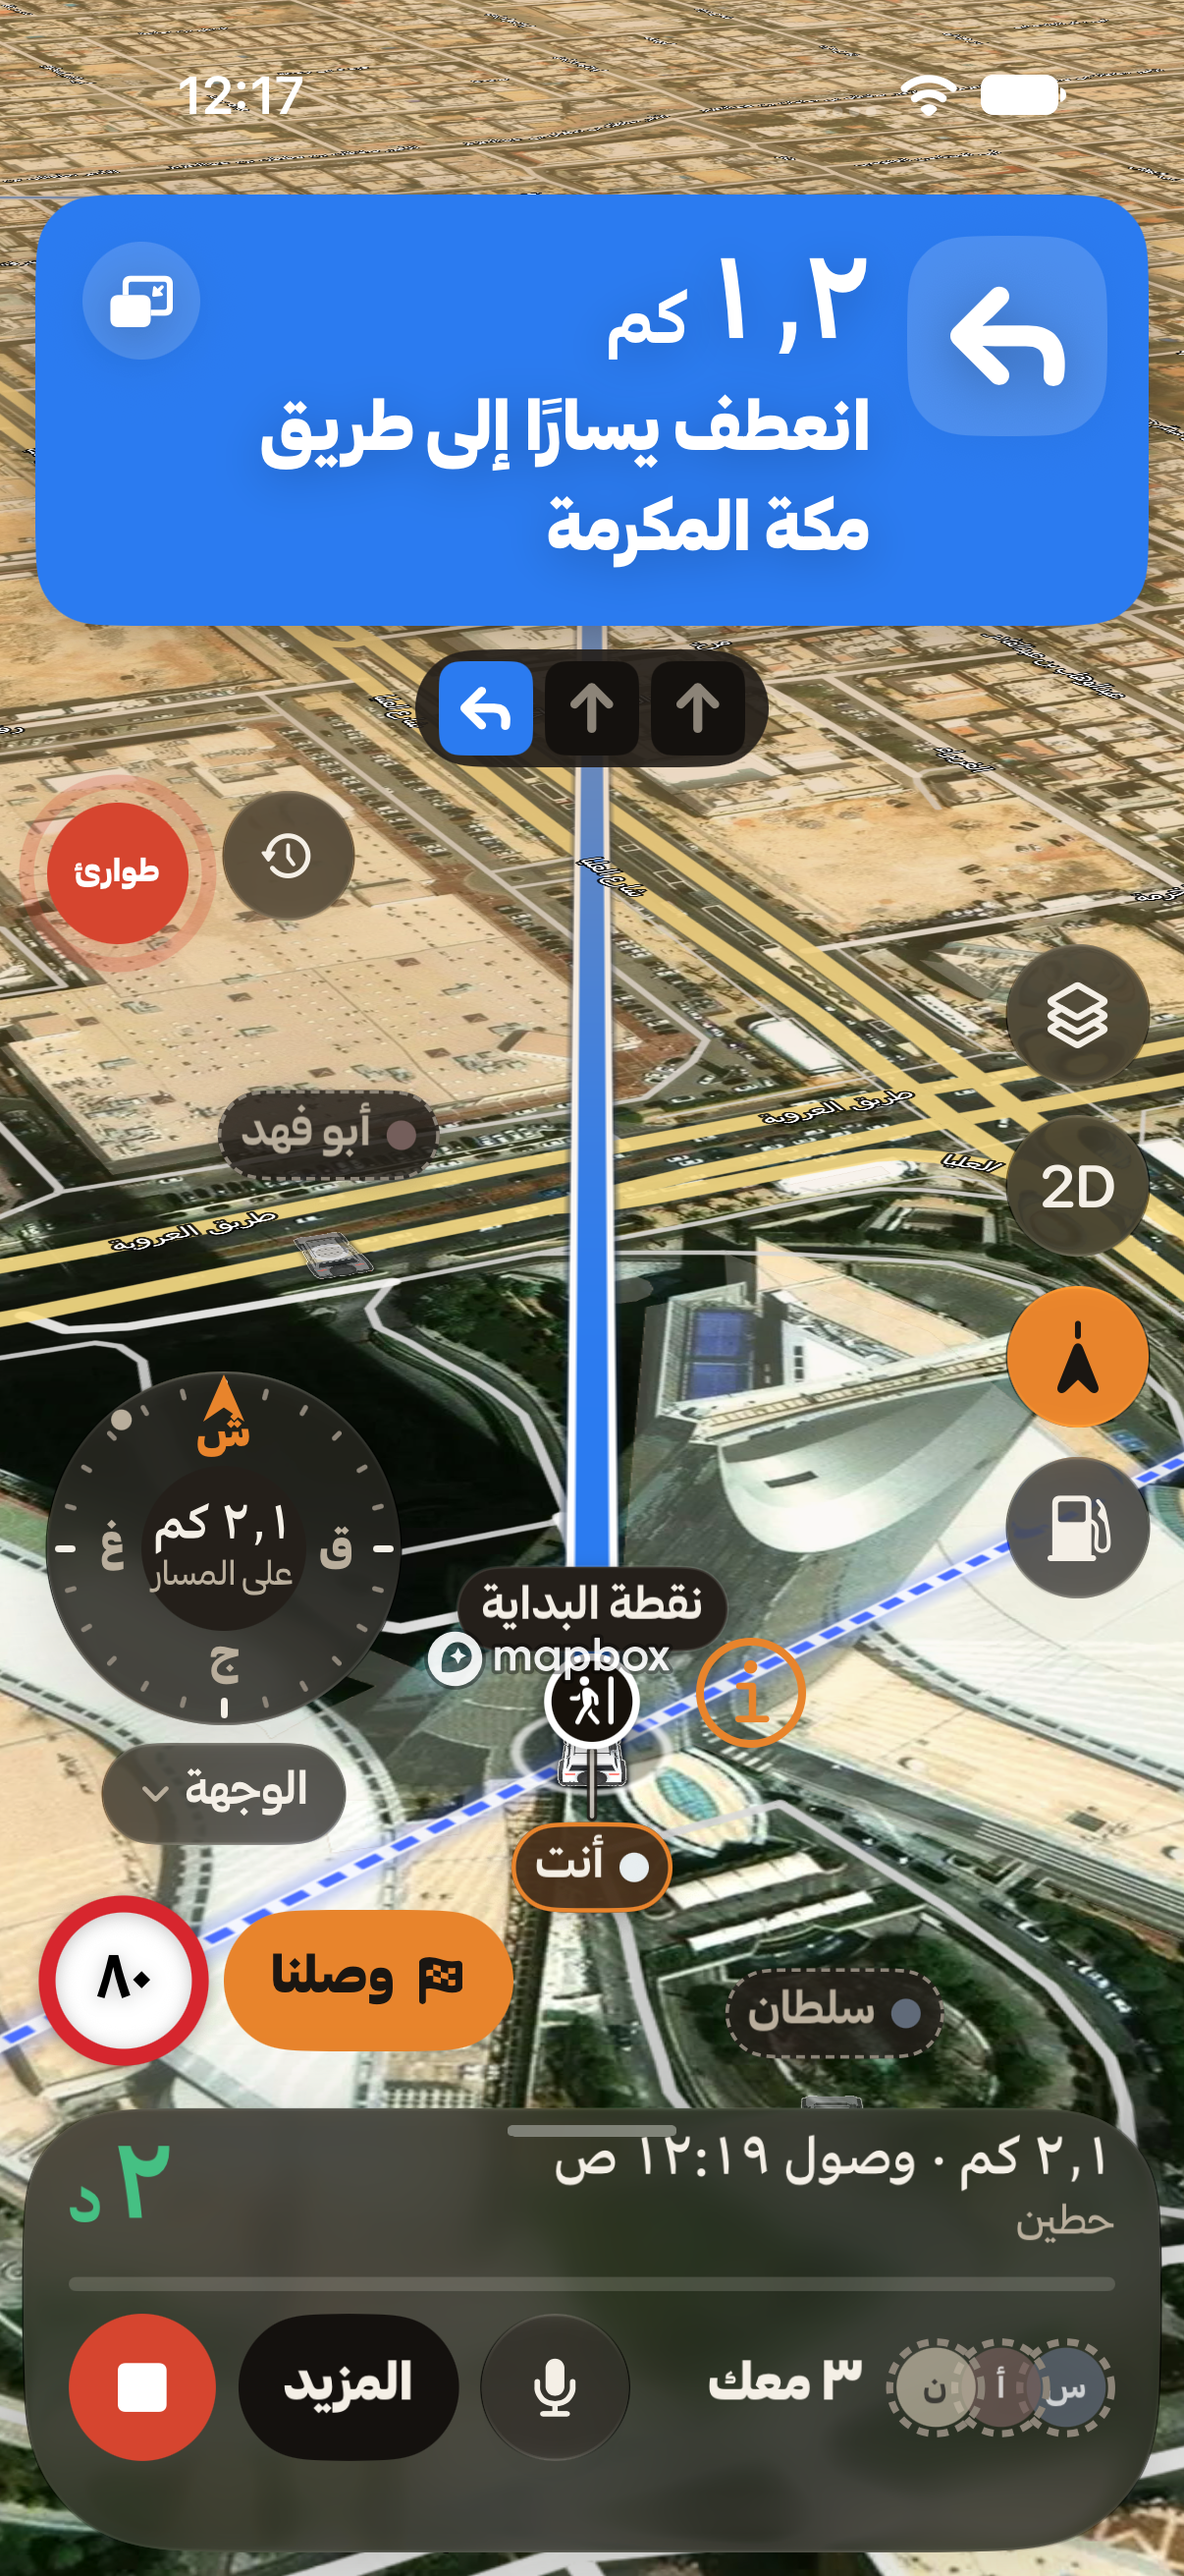
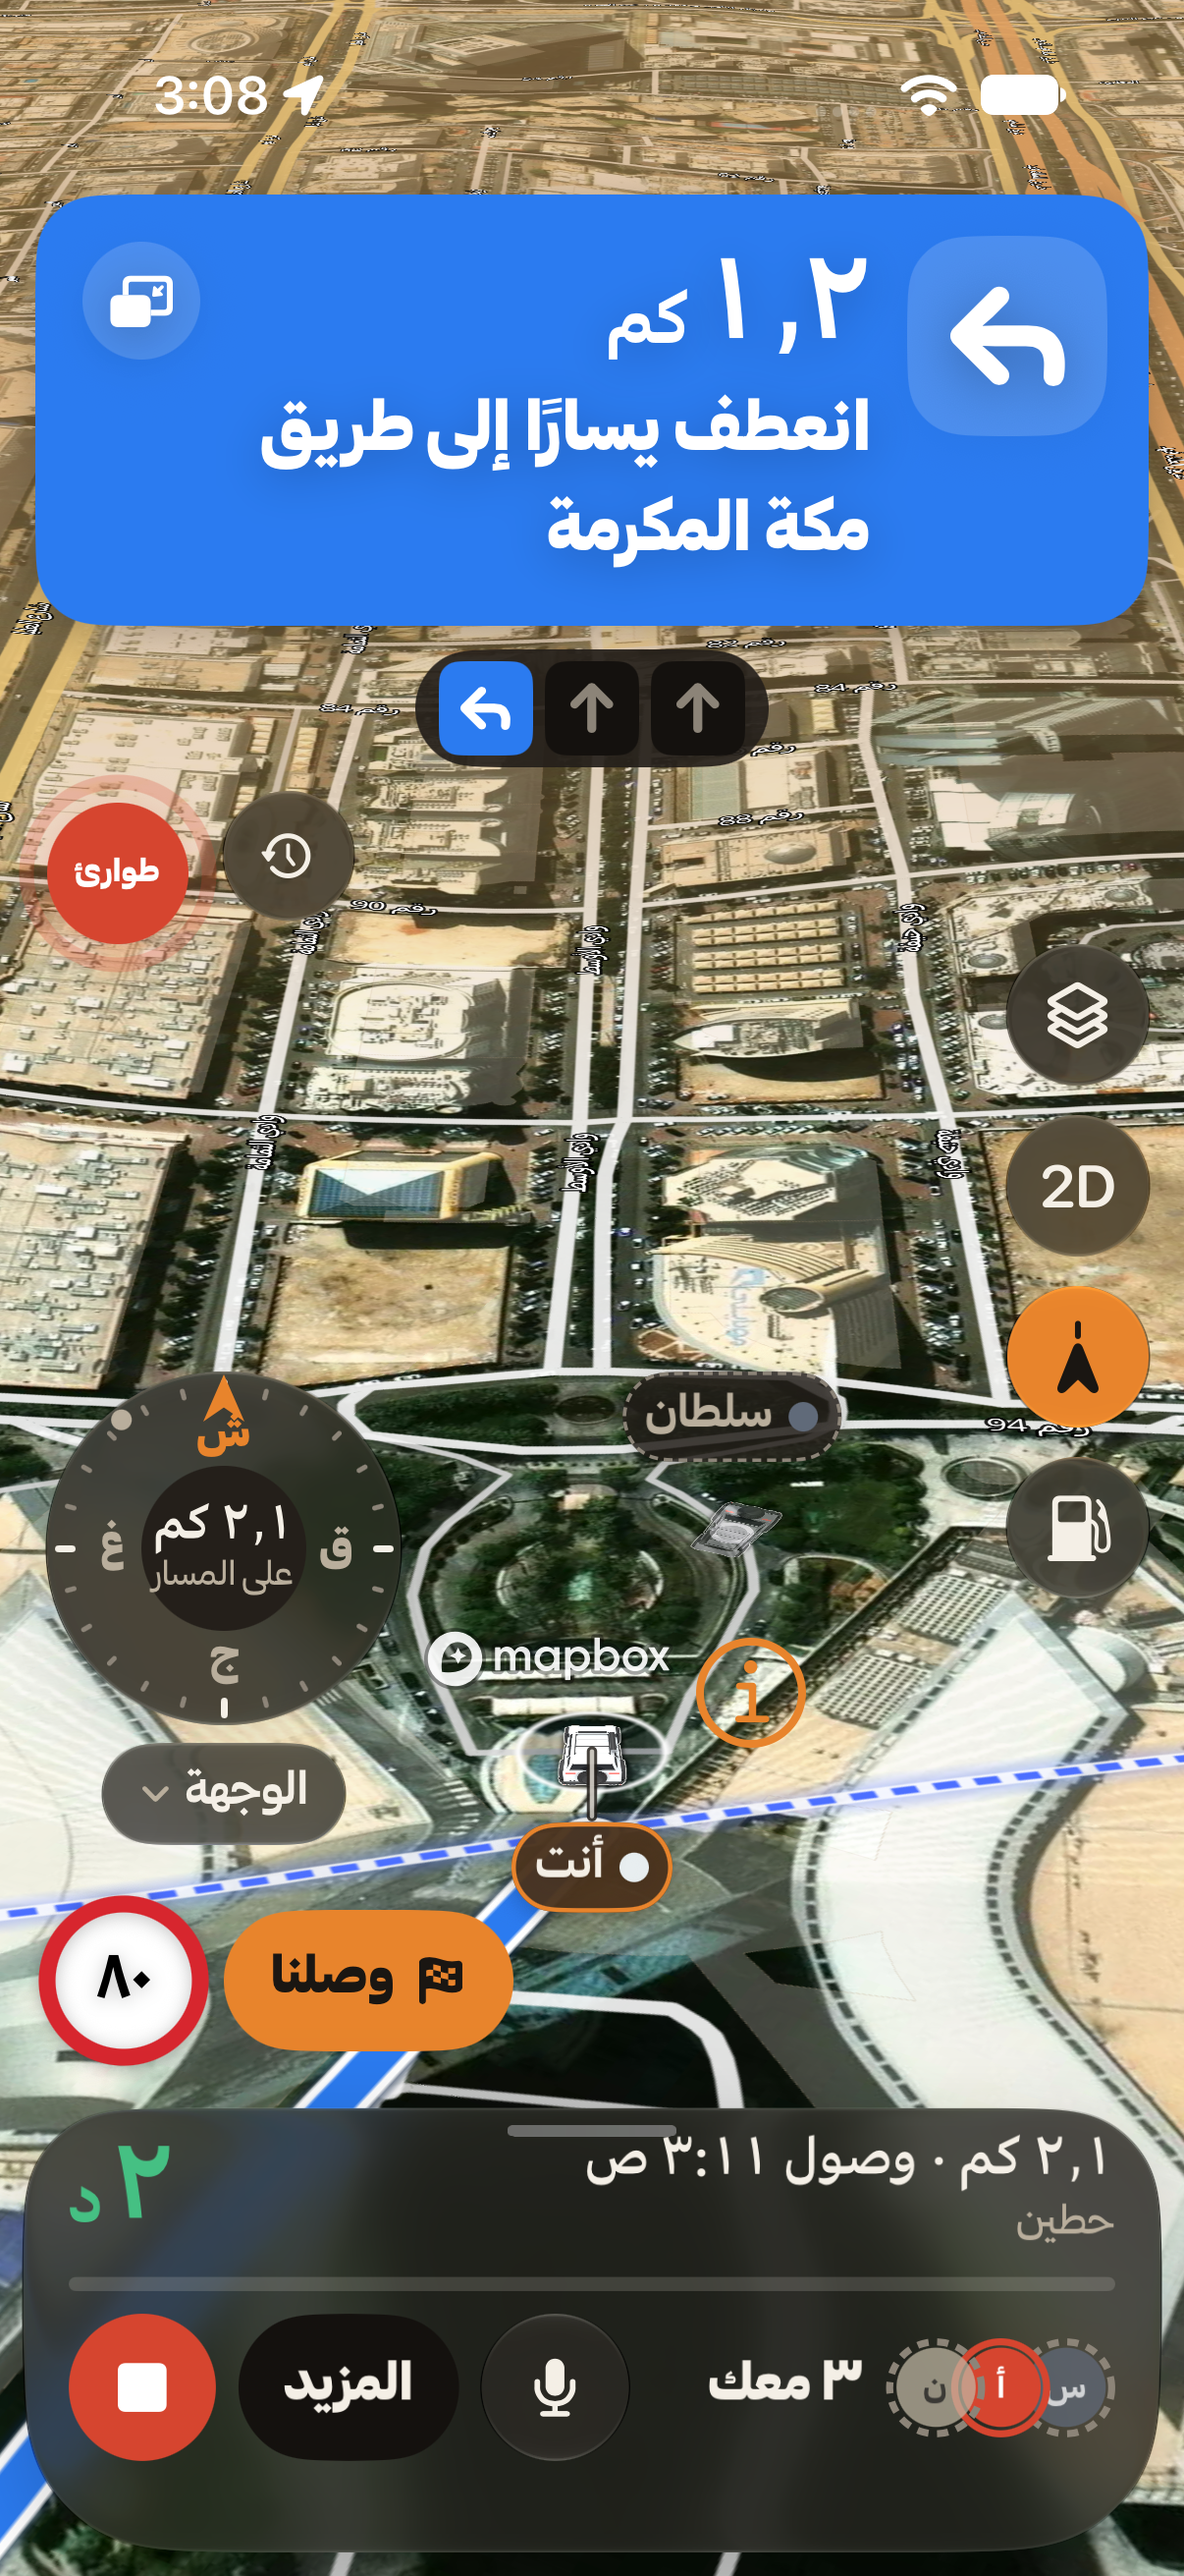
Compass list cap from the screen's compass frame, credit on its own line; Pro/SE/Max shots

diff --git a/apps/ios/SaryAlbarq/Sources/Navigation/DestinationCompassView.swift b/apps/ios/SaryAlbarq/Sources/Navigation/DestinationCompassView.swift
@@ -128,6 +128,8 @@ struct DestinationCompassHost: View {
     /// The person's choice for this outing (nil: the default, `DestinationCompass.resolve`).
     @Binding var chosen: DestinationCompass.Target?
     var online: Bool
+    /// The dial's top edge on the screen (the screen's own `compass` chrome frame): the open list is capped from here.
+    var dialTop: CGFloat? = nil
     @EnvironmentObject private var location: LocationSharer
 
     var body: some View {
@@ -229,13 +231,13 @@ struct DestinationCompassHost: View {
             .init(target: .back, enabled: back != nil, note: back == nil ? DestinationCompass.noTrail : nil),
             .init(target: .qibla, enabled: true, note: nil),
             .init(target: .rain, enabled: rainCell != nil,
-                  note: rainCell.map { "\(CompassRain.line($0)) · \(CompassRain.credit)" } ?? note(nearby.rain, none: CompassRain.none)),
+                  note: rainCell.map { "\(CompassRain.line($0))\n\(CompassRain.credit)" } ?? note(nearby.rain, none: CompassRain.none)),
             .init(target: .spring, enabled: springPick != nil,
-                  note: springPick.map { "\(CompassSpring.line($0)) · \(CompassSpring.credit)" } ?? note(nearby.spring, none: CompassSpring.none)),
+                  note: springPick.map { "\(CompassSpring.line($0))\n\(CompassSpring.credit)" } ?? note(nearby.spring, none: CompassSpring.none)),
         ]
 
         return DestinationCompassView(reading: reading, subtitle: subtitle, accessibility: DestinationCompass.accessibility(reading, detail: detail),
-                                      options: options, pick: { chosen = $0 })
+                                      options: options, dialTopHint: dialTop, pick: { chosen = $0 })
             .chromeFrame("compass")
             .task(id: refreshKey(me)) { nearby.refresh(me: me, online: online) }
     }
@@ -260,6 +262,8 @@ struct DestinationCompassView: View {
     var subtitle: String?
     var accessibility: String
     var options: [Option]
+    /// Where the dial's top edge is, when the host knows it (preferred over this view's own measure).
+    var dialTopHint: CGFloat? = nil
     var pick: (DestinationCompass.Target) -> Void
     @Environment(\.sary) private var theme
     /// Accumulated angles (`DestinationCompass.unwrap`): 359° → 1° turns 2°, never back round.
@@ -340,7 +344,7 @@ struct DestinationCompassView: View {
     static func maxListHeight(dialTop: CGFloat, safeTop: CGFloat) -> CGFloat {
         max(96, dialTop - 10 - (safeTop + reserveTop))
     }
-    static let reserveTop: CGFloat = 236
+    static let reserveTop: CGFloat = 215
 
     /// The five targets, as in the mockup: the chosen one filled, a reason under a disabled one.
     private var targetList: some View {
@@ -352,7 +356,7 @@ struct DestinationCompassView: View {
             listRows(p).background(GeometryReader { g in Color.clear.preference(key: CompassRowsHeightKey.self, value: g.size.height) })
         }
         .onPreferenceChange(CompassRowsHeightKey.self) { rowsHeight = $0 }
-        .frame(height: min(rowsHeight, Self.maxListHeight(dialTop: dialTop, safeTop: safeTop)))
+        .frame(height: min(rowsHeight, Self.maxListHeight(dialTop: dialTopHint ?? dialTop, safeTop: safeTop)))
     }
 
     private func listRows(_ p: SaryPalette) -> some View {

diff --git a/apps/ios/SaryAlbarq/Sources/Views/LiveOutingScreen.swift b/apps/ios/SaryAlbarq/Sources/Views/LiveOutingScreen.swift
@@ -408,7 +408,7 @@ struct LiveOutingScreen: View {
                         HStack(spacing: 0) {
                             Spacer(minLength: 0)
                             DestinationCompassHost(controller: controller, nav: controller.nav, nearby: compassNearby,
-                                                   chosen: $compassTarget, online: app.online)
+                                                   chosen: $compassTarget, online: app.online, dialTop: frames["compass"]?.minY)
                         }
                         .padding(.horizontal, 16)
                         .dynamicTypeSize(...DynamicTypeSize.xxLarge)
